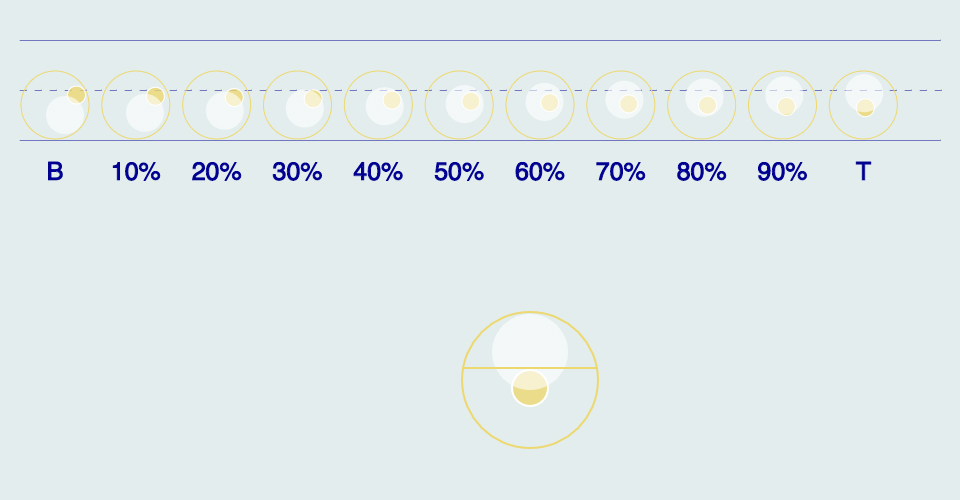
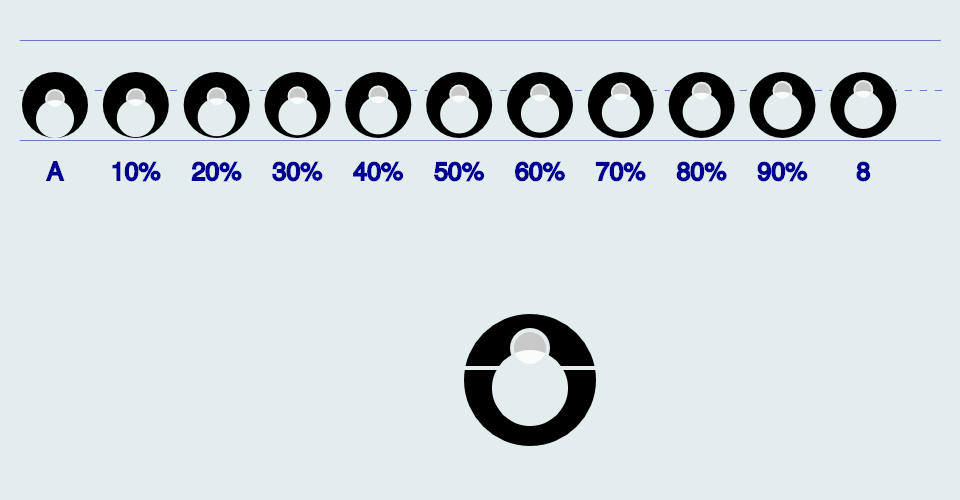
Added 'cut-outs'

diff --git a/draw_letters.js b/draw_letters.js
@@ -1,5 +1,5 @@
 const colorFront  = "#000000";
-const colorStroke = "#edd86f";
+const colorStroke = "#e3eded";
 
 /*
  * Draw the letter given the letterData
@@ -11,11 +11,9 @@ const colorStroke = "#edd86f";
 function drawLetter(letterData) {
 
   // color/stroke setup
-  
-  //fill(colorFront);
-  noFill();
+  fill(colorFront);
   stroke(colorStroke);
-  strokeWeight(2);
+  strokeWeight(4);
 
   let posx1 = letterData["posX1"];
   let posx2 = letterData["posX2"];
@@ -28,13 +26,15 @@ function drawLetter(letterData) {
 
   // draw two circles
   ellipse(50, 130, 136, 136);
-  stroke('white');
-  fill(237, 216, 111, 200);
-  ellipse(posx1, posy1, 36, 36);
+  stroke(colorStroke);
+  
   noStroke();
-  fill(255, 255, 255, 150);
+  fill(227, 237, 237);
   ellipse(posx2, posy2, 76, 76);
   stroke(colorStroke);
+  //fill(237, 216, 111, 200);
+  fill(255, 255, 255, 200);
+  ellipse(posx1, posy1, 36, 36);
   line(linex1,liney1,linex2,liney2);
 }
 

diff --git a/README.md b/README.md
@@ -1,6 +1,9 @@
 ## PS2 MDDN 242 2018
 
-I wanted to play around with the colour, stroke and transparency. For this design I removed the fill on the background. It has an Interesting look without the big circles colour in the back. It also effects how the transparency of the smaller circles looks. The small gold one doesn't look like it's transparent. I used white and gold for the colours. 
+I wanted to play around with the colour, stroke and transparency. For this design I made the medium circle and the stroke the background colour and removed the transparency. This gives it a "cut-out" look. The little circle is partially transparent and white. I like how it looks when it overlaps with the background coloured parts, because it looks like it's pure white. I made the stroke width 4 so it could be clearly seen, even though I liked the way the thin stroke looked.
+
+This is a simple looking design but so far I think it is my favourite.
+
 
 The eight parameters per letter are now:
 
